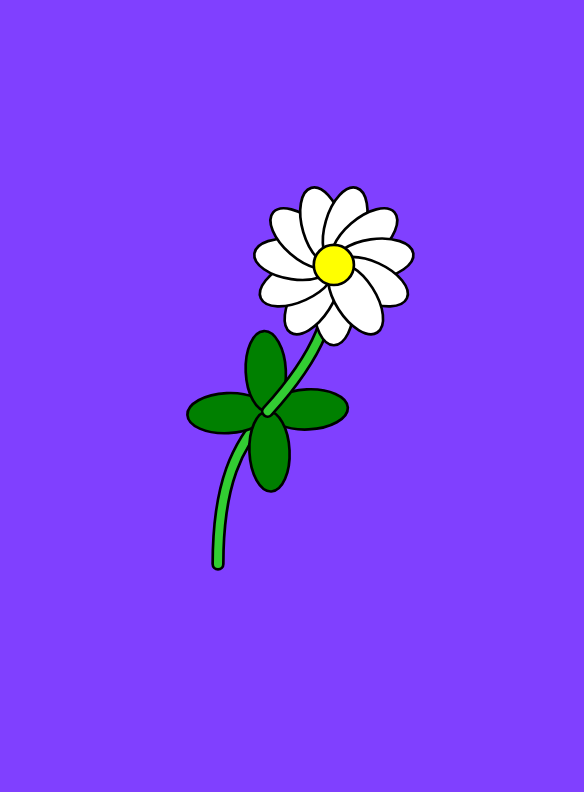
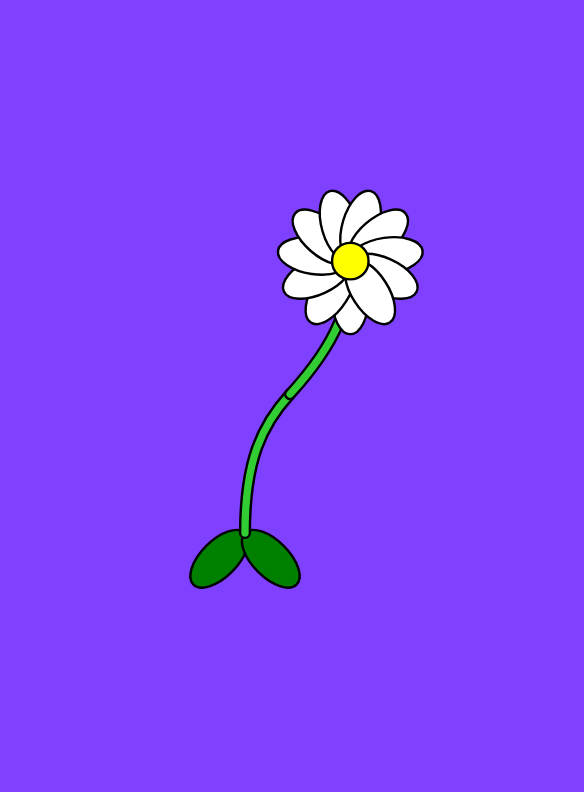
polish

Changed region(s): [[0.3082, 0.2121, 0.7397, 0.7576]]

diff --git a/public/courses/flower_garden/2_control_functions/5_composition/sketch.js b/public/courses/flower_garden/2_control_functions/5_composition/sketch.js
@@ -3,17 +3,11 @@ function my_garden() {
 }
 
 function my_flower() {
-	stem_length = 2
-	stem_bend = 2 / 10
-	stem()
-
-	branch(my_leaves)
-
-	stem_bend = -2 / 10
-	stem()
-
-	branch(my_bud)
+	my_leaves()
+	my_stem()
+	my_bud()
 }
+
 
 function my_leaves() {
 	petal_color = "green"
@@ -21,7 +15,19 @@ function my_leaves() {
 	fork(petal)
 }
 
+
+function my_stem() {
+	stem_length = 2
+	stem_bend = 1 / 5
+	stem()
+
+	stem_bend = -1 / 5
+	stem()
+}
+
+
 function my_bud() {
+	petal_color = "white"
 	ring_count = 11
 	ring(petal)
 

diff --git a/public/courses/flower_garden/3_funky_flowers/4_time/sketch.js b/public/courses/flower_garden/3_funky_flowers/4_time/sketch.js
@@ -7,6 +7,8 @@ function my_garden() {
 function my_petal() {
 	wave_min = 0
 	wave_max = 1
+
 	petal_size = wave(f * 3)
+
 	petal()
 }

diff --git a/public/courses/flower_garden/3_funky_flowers/3_wave/sketch.js b/public/courses/flower_garden/3_funky_flowers/3_wave/sketch.js
@@ -7,6 +7,8 @@ function my_garden() {
 function my_petal() {
 	wave_min = 0
 	wave_max = 1
+
 	petal_size = f
+
 	petal()
 }

diff --git a/public/courses/flower_garden/2_control_functions/5_composition/copy.md b/public/courses/flower_garden/2_control_functions/5_composition/copy.md
@@ -1,9 +1,8 @@
 When our flower gets more complicated, it is nice to keep things organized. Define your own functions to help indicate what the code does.
 ---
-In this case:
-- `my_garden`: calls the `my_flower` function, which draws the flower
-- `my_flower`: calls `my_leaves` and `my_bud`
+In this case: `my_garden` calls `my_flower`, which draws the 3 parts of the flower:
 - `my_leaves`: draws the 2 green leaves
+- `my_stem`: draws the stem with a wiggle
 - `my_bud`: draws the petals and bud
 ---
 Besides helping organise, defining your own functions also allows for composition with the 4 control functions: `repeat`, `ring`, `fork`, and `branch`

diff --git a/public/courses/flower_garden/3_funky_flowers/2_fraction/docs.md b/public/courses/flower_garden/3_funky_flowers/2_fraction/docs.md
@@ -1,7 +1,8 @@
 But what if we want even more control? 
 In comes special variable: `f`✨
 ---
-`f` stand for fraction. It tells you how far along you are inside a `repeat`, `ring` or `fork` call. It's value goes from 0 at the start to 1 at the end.
+`f` stand for fraction. It tells you how far along you are inside a `repeat`, `ring` or `fork` call. 
+`f` is a number that goes from 0 to 1
 ---
 Challenge!
 - Change `petal_size = f` to `petal_size = f + mouse_x` and move around your mouse.

diff --git a/public/courses/flower_garden/3_funky_flowers/4_time/docs.md b/public/courses/flower_garden/3_funky_flowers/4_time/docs.md
@@ -1,7 +1,8 @@
-Do we have any more of those fancy variables? How about `t` 🔥
+Do we have any more of those fancy variables? 
+How about `t` ! 🔥
 ---
 `t` stand for time and can be used to animate flowers!
 ---
-Challenge:
+Challenge!
 - Set wave min to `wave_min = wave(t)`
-- Now set `wave_min` back to `0` and change `wave(f * 3)` into `wave(f * 3 + t)`
+- Now set `petal_size = wave(f * 3)` to `wave(f * 3 + t)`

diff --git a/public/courses/flower_garden/1_garden_varieties/1_welcome/copy.md b/public/courses/flower_garden/1_garden_varieties/1_welcome/copy.md
@@ -1,6 +1,6 @@
 Welcome to the Flower Garden :)
 ---
-In this chapter we will learn about the large variety of flowers that are possible in this garden.
+In this tutorial we will learn about the large variety of flowers that are possible in this garden.
 ---
 We will learn how to control these variations and even make a couple of our own! ✨🌼✨
 ---

diff --git a/public/courses/flower_garden/3_funky_flowers/3_wave/docs.md b/public/courses/flower_garden/3_funky_flowers/3_wave/docs.md
@@ -10,4 +10,4 @@ The wave has a min and max value indicating the low and high point of the wave. 
 Challenge!
 - change `petal_size = f` into `petal_size = wave(f)`
 - now change it to `wave(f * 3)`
-- set `wave_min = mouse_x` and `wave_max = mouse_y`
+- set `wave_min = mouse_x` and `wave_max = mouse_y` and move the wave! ✨ 

diff --git a/public/courses/flower_garden/2_control_functions/3_fork/copy.md b/public/courses/flower_garden/2_control_functions/3_fork/copy.md
@@ -7,6 +7,6 @@ fork also has a count property, as well as an angle property:
 - `fork_angle = 1 / 2`
 ---
 Challenge!
-- Change `ring` to `fork`
+- Change `ring(petal)` to `fork(petal)`
 - Add `fork_angle` set it to `mouse_x` and see what happens! ✨
 - Add `fork_count` and try out different numbers...

diff --git a/public/courses/flower_garden/3_funky_flowers/1_multiple_arguments/docs.md b/public/courses/flower_garden/3_funky_flowers/1_multiple_arguments/docs.md
@@ -5,7 +5,7 @@ Until now we've only been passing 1 argument to ring, but it is possible to pass
 We do so my putting a `,` in between the arguments. For example:
 - `ring(petal, stem)`
 - `repeat(petal, stem, bud)`
-- `fork(petal, bud, stem, bud)`
+- `fork(petal, bud, stem, my_bud)`
 
 ---
 Challenge!

diff --git a/public/courses/flower_garden/1_garden_varieties/4_colors/copy.md b/public/courses/flower_garden/1_garden_varieties/4_colors/copy.md
@@ -11,4 +11,4 @@ For a list of all possible colour names, have a look [here](https://htmlcolorcod
 ---
 Challenge!
 - Create the famous `"black"` tulip...
-- Change the colours to whatever you want! ✨
+- Or change the colours to whatever you want! ✨

diff --git a/public/courses/flower_garden/3_funky_flowers/5_dancing_flower/docs.md b/public/courses/flower_garden/3_funky_flowers/5_dancing_flower/docs.md
@@ -1,4 +1,4 @@
 Now let's put everything together and marvel at our dancing flower! 🤩
 ---
-Challenge
-- Make your own dancing flower 🎉💃🕺✨
+Challenge!
+- Make your own dancing flower! 🎉💃🕺✨
